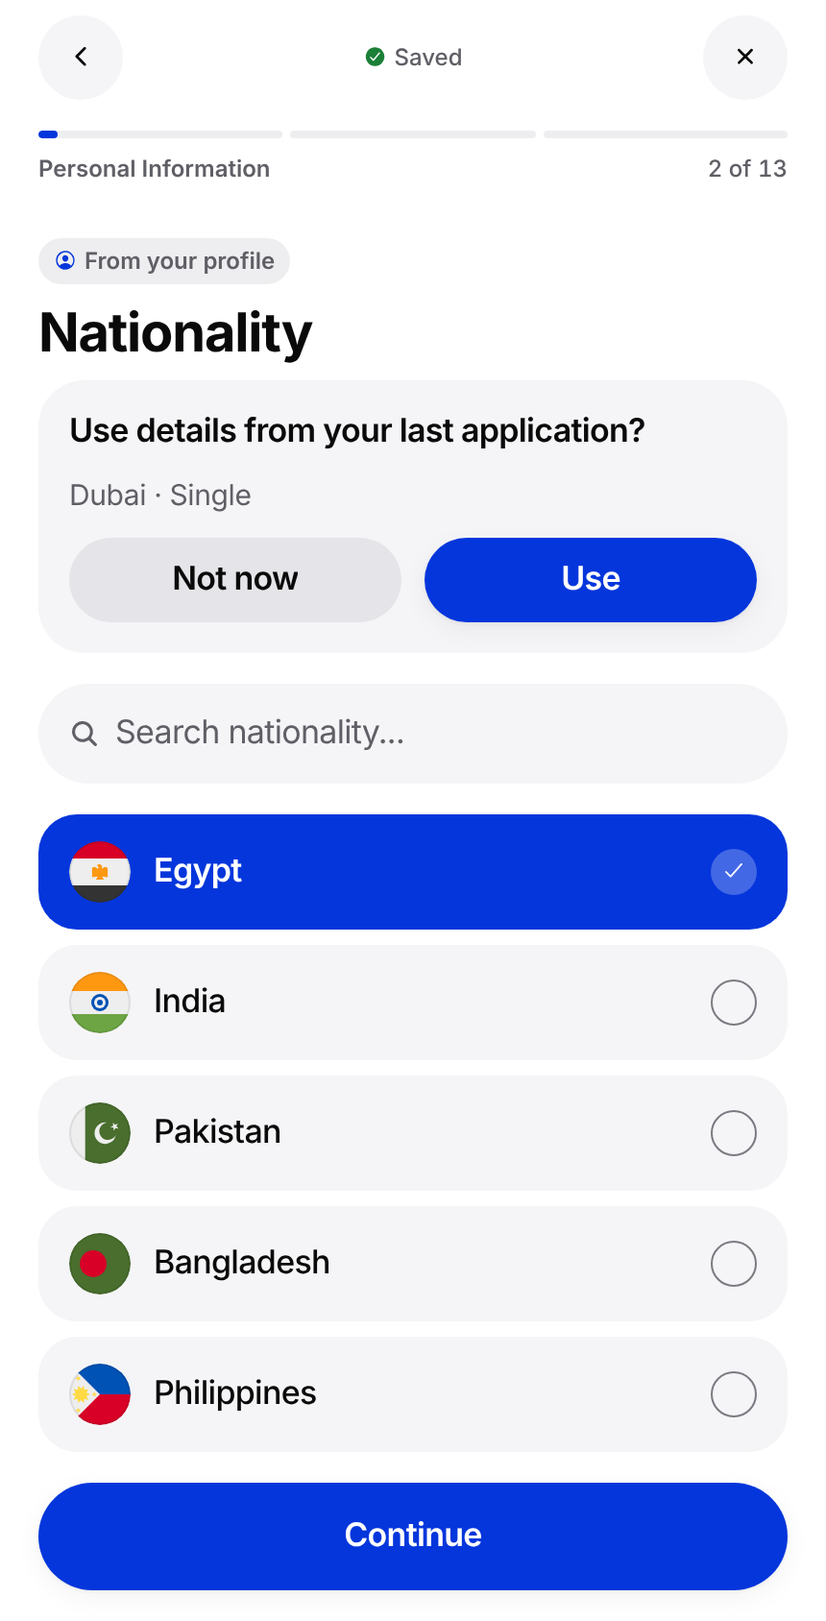
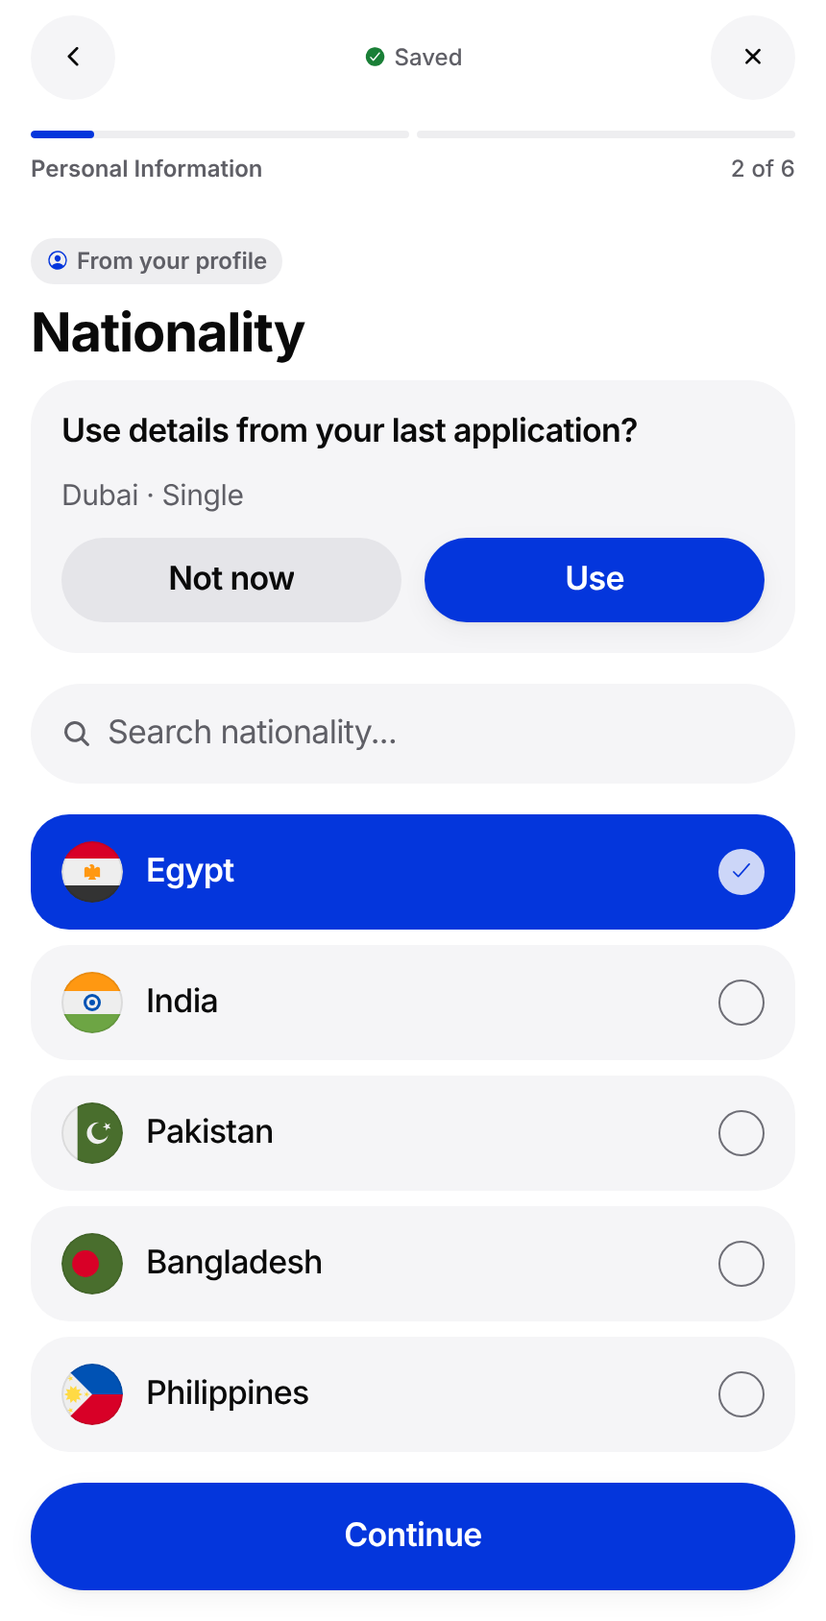
mobile prefill QA: prefill only what is asked before payment; RTL phone; migration 0013
After the pre/post-payment wizard split (8651059), profile prefill still wrote
date of birth, "has valid passport" and passport expiry into the pre-payment
draft. Those have no pre-payment question, so the user never saw them, and
Continue application skips answered questions, so they were never shown at all.
The last-application offer did the same for spouse names and employment.

- lib/profile.ts: PRE_PAYMENT_KEYS derived from lib/questions.ts; prefill keys,
  the offer list (OFFER_KEYS) and the Review save-back list are limited to it.
- app/apply/index.tsx: uses OFFER_KEYS; phone numbers in the Review prompt are
  LTR-isolated (Arabic reversed the digit groups).
- lib/ar.ts: shorter "Keep profile" (the button wrapped to two lines).
- migrations: customer profiles 0012 -> 0013 (0012 is claim_device_token);
  drop policy if exists before each create policy (re-runnable).
- tests: unit checks for pre-payment-only prefill, Continue still asking date
  of birth and passport, expired passport via validatePassport, a non-vacuous
  "nothing written before confirmation"; e2e follows the new flow, adds an
  answer-survives-reload check and waits out the boot splash for screenshots.
- handoff + screenshots updated (390/430, plus Arabic Review).

Claude-Session: https://claude.ai/code/session_01R6Y5ZGKq1RyjDpdeDi6T2v

diff --git a/mobile/scripts/test-profile.ts b/mobile/scripts/test-profile.ts
@@ -2,8 +2,9 @@
 // Run: node scripts/run-test-profile.mjs
 // @ts-ignore plain JS stub
 import { db as fake } from "./stubs/supabase.js";
-import { loadProfile, applyProfile, isFreshDraft, profileChanges, saveProfile, splitPhone, markPrefilled, markAsked, shouldAsk } from "../lib/profile";
-import { emptyForm, validatePersonal, iso, type WizardForm } from "../lib/wizard";
+import { loadProfile, applyProfile, isFreshDraft, profileChanges, saveProfile, splitPhone, markPrefilled, markAsked, shouldAsk, OFFER_KEYS, PRE_PAYMENT_KEYS, SAVABLE } from "../lib/profile";
+import { emptyForm, validatePassport, visibleSteps, iso, type WizardForm } from "../lib/wizard";
+import { QUESTIONS, activeQuestions, firstError } from "../lib/questions";
 declare const process: any;
 const db: any = fake;
 
@@ -31,12 +32,20 @@ db.rows = [
   ok(p.phoneCountry === "EG" && p.phoneLocal === "100 123 4567", "phone split into country + local");
   ok(p.email === A.email, "email is the account email");
 
-  // ---- expired passport: still prefilled, validation flags it ----
+  // ---- only answers asked before payment are prefilled (nothing hidden that Continue would then skip) ----
+  const preKeys = new Set(QUESTIONS.filter((q) => visibleSteps(emptyForm).includes(q.step)).flatMap((q) => q.keys as string[]));
   const { form, filled } = applyProfile({ ...emptyForm, destination: "France", nationality: "" }, p);
-  ok(form.passportExpiry === "2025-01-31" && filled.includes("passportExpiry") && form.hasValidPassport === "yes", "expired passport expiry is prefilled");
-  ok(form.passportNumber === "" && !filled.includes("passportNumber" as any), "passport number is not prefilled (asked after payment)");
-  ok(/expired/i.test(validatePersonal(form).passportExpiry ?? ""), `validation flags the expired passport ("${validatePersonal(form).passportExpiry}")`);
-  ok(validatePersonal({ ...form, passportExpiry: inYears(5) }).passportExpiry === undefined, "a valid future expiry passes");
+  ok(filled.length > 0 && filled.every((k) => preKeys.has(k)), `prefill fills only pre-payment answers (filled: ${filled.join(",")})`);
+  ok(!form.dateOfBirth && !form.hasValidPassport && !form.passportExpiry && !form.passportNumber, "date of birth and passport are not prefilled before payment");
+  const askedAfter = activeQuestions({ ...form, travelEndDate: inYears(1) }, "post").filter((q) => !!firstError(q, { ...form, travelEndDate: inYears(1) })).map((q) => q.id);
+  ok(["dateOfBirth", "hasValidPassport"].every((id) => askedAfter.includes(id)), `Continue (after payment) still asks date of birth and passport (asks: ${askedAfter.join(",")})`);
+  ok(OFFER_KEYS.every((k) => preKeys.has(k)) && OFFER_KEYS.includes("maritalStatus") && !OFFER_KEYS.some((k) => /^(employment|jobTitle|companyName|spouse|monthly|average)/.test(k)),
+    `"Use details from your last application" offers only pre-payment answers (${OFFER_KEYS.join(",")})`);
+  ok([...PRE_PAYMENT_KEYS].every((k) => preKeys.has(k)) && SAVABLE.every((x) => preKeys.has(x.key)), "profile save-back lists only fields shown on the pre-payment Review");
+  // ---- expired passport: flagged where the passport is asked now (Continue, validatePassport) ----
+  const expired = { ...emptyForm, hasValidPassport: "yes" as const, passportNumber: "A1234567", passportExpiry: "2025-01-31" };
+  ok(/expired/i.test(validatePassport(expired).passportExpiry ?? ""), `an expired passport is flagged ("${validatePassport(expired).passportExpiry}")`);
+  ok(validatePassport({ ...expired, passportExpiry: inYears(5) }).passportExpiry === undefined, "a valid future expiry passes");
 
   // ---- never over answers already in a draft ----
   const draft = { ...emptyForm, firstName: "Mina", nationality: "India" };
@@ -45,15 +54,15 @@ db.rows = [
   ok(!isFreshDraft(draft) && isFreshDraft({ ...emptyForm, destination: "Italy", nationality: "Egypt" }), "isFreshDraft: identity answers make a draft non-new; link values don't");
 
   // ---- edits -> profile question (only edited prefilled, savable fields) ----
-  const edited = { ...form, phone: "+20 100 999 0000", phoneLocal: "100 999 0000", passportNumber: "B7654321", passportExpiry: inYears(5) };
+  const edited = { ...form, phone: "+20 100 999 0000", phoneLocal: "100 999 0000", dateOfBirth: "1992-05-05", passportNumber: "B7654321", passportExpiry: inYears(5) };
   const ch = profileChanges(edited, p);
   ok(ch.length === 1 && ch[0].key === "phone", `only the edited savable field is offered (got ${ch.map((c) => c.key).join(",")})`);
   ok(profileChanges(form, p).length === 0, "no question when nothing was edited");
   ok(profileChanges({ ...form, phone: "+20 1001234567" }, p).length === 0, "phone formatting differences are not a change");
 
   // ---- update only after confirmation, only for the same account ----
+  ok(!db.calls.some((c: any) => c.updateUser), "nothing written before confirmation (load, prefill and diff never write)");
   db.calls = [];
-  ok(!db.calls.some((c: any) => c.updateUser), "nothing written before confirmation");
   await saveProfile(A.id, edited, ch);
   const w = db.calls.find((c: any) => c.updateUser);
   ok(!!w && w.updateUser === A.id && w.data.phone === "+20 100 999 0000" && Object.keys(w.data).sort().join() === "phone,phone_country", "confirmed: only the changed field is written to the user's own profile");

diff --git a/mobile/app/apply/index.tsx b/mobile/app/apply/index.tsx
@@ -28,7 +28,7 @@ import { submitApplication, guestSubmit, listRequirements, DraftConflictError, t
 import { PrefillOffer } from "../../components/wizard/extras";
 import { QuestionView } from "../../components/wizard/QuestionView";
 import { SyncIndicator, DraftConflictSheet } from "../../components/wizard/sync";
-import { loadProfile, applyProfile, isFreshDraft, profileChanges, saveProfile, markPrefilled, markAsked, shouldAsk, type ProfileChange } from "../../lib/profile";
+import { loadProfile, applyProfile, isFreshDraft, profileChanges, saveProfile, markPrefilled, markAsked, shouldAsk, OFFER_KEYS, type ProfileChange } from "../../lib/profile";
 import { useNetInfo } from "@react-native-community/netinfo";
 import { scheduleDraftReminder, cancelDraftReminder } from "../../lib/reminders";
 import { error as hError, tap, success, select } from "../../lib/haptics";
@@ -40,10 +40,6 @@ const WORLD_NAMES = WORLD.map((w) => w.name);
 const isoDate = (s?: string) => (s && /^\d{4}-\d{2}-\d{2}$/.test(s) && !isNaN(Date.parse(s)) ? s : "");
 const titleCase = (s: string) => decodeURIComponent(s).replace(/[-_+]+/g, " ").trim().replace(/\b\w/g, (m) => m.toUpperCase());
 const AUTO_MS = 260;
-/** Other stable answers the user can reuse from the last application with one tap (trip answers are never copied).
- *  The profile fields (name, nationality, date of birth, passport validity and expiry, phone) are prefilled on their own, see lib/profile.ts. */
-const PREFILL_KEYS: (keyof WizardForm)[] = ["cityOfResidence", "hasEmiratesId", "maritalStatus",
-  "spouseFirstName", "spouseLastName", "employmentStatus", "jobTitle", "companyName", "employmentStartDate", "monthlySalary", "averageMonthlyIncome"];
 const cleanAfterPrefill = (f: WizardForm): WizardForm => coerceResidence({ ...f, nationality: SCHENGEN_VISA_REQUIRED.includes(f.nationality) ? f.nationality : "" });
 const STEP_ORDER: WizardStep[] = ["personal", "spouse", "employment", "trip-details", "payment"];
 type Params = { step?: string; from?: string; to?: string; nationality?: string; destination?: string; travelStartDate?: string; travelEndDate?: string; country?: string; resume?: string; city?: string; cityOfResidence?: string };
@@ -130,8 +126,8 @@ export default function Apply() {
       }
       const w = r.last; if (!w) return;
       const values: Partial<WizardForm> = {};
-      for (const k of PREFILL_KEYS) { const v = (w as any)[k]; if (v !== undefined && v !== null && v !== "" && !(nf as any)[k]) (values as any)[k] = v; }
-      // Subtitle = what "Use" fills (e.g. "Dubai · Single · Employed"), so it is not mistaken for the profile prefill.
+      for (const k of OFFER_KEYS) { const v = (w as any)[k]; if (v !== undefined && v !== null && v !== "" && !(nf as any)[k]) (values as any)[k] = v; }
+      // Subtitle = what "Use" fills (e.g. "Dubai · Single"), so it is not mistaken for the profile prefill.
       const vf = { ...emptyForm, ...values } as WizardForm;
       const what = ["cityOfResidence", "maritalStatus", "employmentStatus", "jobCompany", "companyName"].map((id) => (Q_BY_ID[id] ? displayValue(Q_BY_ID[id], vf, t, fmt) : "")).filter(Boolean);
       if (Object.keys(values).length) setPrefill({ values, name: [...new Set(what)].join(" · ") || [w.firstName, w.lastName].filter(Boolean).join(" ") });
@@ -371,7 +367,8 @@ export default function Apply() {
                 <Text variant="headline" accessibilityRole="header">{t("Update your profile too?")}</Text>
                 <Text variant="subhead" tone="secondary">{t("You changed details that came from your profile. Save them for your next application?")}</Text>
                 {profileAsk.changes.map((ch) => {
-                  const show = (v: string) => (ch.key === "dateOfBirth" ? fmt(v) : ch.key === "nationality" ? t(v) : v);
+                  // Phone numbers are isolated as left-to-right so Arabic (RTL) text never reorders their digit groups.
+                  const show = (v: string) => (ch.key === "dateOfBirth" ? fmt(v) : ch.key === "nationality" ? t(v) : ch.key === "phone" ? `\u2066${v}\u2069` : v);
                   return (
                     <View key={ch.key} style={{ gap: S.xxs }} accessible accessibilityLabel={t("{field}: {to}, profile has {from}", { field: t(ch.label), to: show(ch.to), from: show(ch.from) })}>
                       <Text variant="footnote" tone="secondary">{t(ch.label)}</Text>

diff --git a/mobile/lib/profile.ts b/mobile/lib/profile.ts
@@ -5,25 +5,33 @@
 //     already prefills from (web app/apply/page.tsx). Only the signed-in user can read or change their own metadata.
 //  2. The user's own latest application (visa_applications .eq("email", me), like listApplications) for anything the
 //     metadata lacks, incl. passport number and expiry. Passport details are never written to user_metadata: that is
-//     copied into every access token. A real profile table for them is proposed in migrations/0012_customer_profiles.sql (not applied).
+//     copied into every access token. A real profile table for them is proposed in migrations/0013_customer_profiles.sql (not applied).
 // Nothing here is cached: the profile is fetched when needed and kept in component state only. The only thing stored
 // on the phone is a per-draft flag (no personal data) so the "update your profile?" question is asked once.
 import AsyncStorage from "@react-native-async-storage/async-storage";
 import { supabase } from "./supabase";
 import { WORLD } from "./world";
 import { parseNotes } from "./data";
-import { needsSchengenVisa, type WizardForm } from "./wizard";
+import { emptyForm, needsSchengenVisa, visibleSteps, type WizardForm } from "./wizard";
+import { QUESTIONS } from "./questions";
 
 export type ProfileKey = "firstName" | "lastName" | "email" | "phone" | "phoneCountry" | "phoneLocal" | "nationality" | "dateOfBirth" | "hasValidPassport" | "passportNumber" | "passportExpiry";
 export type Profile = Partial<Pick<WizardForm, ProfileKey>>;
+/** Answers the wizard asks before payment. Only these are prefilled: anything else would sit in the draft unseen, and
+ *  Continue application (after payment) skips questions that already have a valid answer. */
+export const PRE_PAYMENT_KEYS = new Set<string>(QUESTIONS.filter((q) => visibleSteps(emptyForm).includes(q.step)).flatMap((q) => q.keys as string[]));
+const prePayment = <T extends string>(keys: T[]) => keys.filter((k) => PRE_PAYMENT_KEYS.has(k));
 /** Wizard fields that are prefilled from the profile (the rest of the application is never copied automatically).
- *  The passport number is not one of them: the wizard asks it only after payment (Continue application). */
-export const PROFILE_KEYS: ProfileKey[] = ["firstName", "lastName", "email", "phone", "phoneCountry", "phoneLocal", "nationality", "dateOfBirth", "hasValidPassport", "passportExpiry"];
-/** Fields the user may save back to their profile (user_metadata) after confirming on Review. */
+ *  Date of birth and passport are loaded but asked only after payment, so today they are not prefilled. */
+export const PROFILE_KEYS: ProfileKey[] = prePayment<ProfileKey>(["firstName", "lastName", "email", "phone", "phoneCountry", "phoneLocal", "nationality", "dateOfBirth", "hasValidPassport", "passportExpiry"]);
+/** Other stable answers offered from the last application ("Use details from your last application?"), same rule. */
+export const OFFER_KEYS = prePayment<keyof WizardForm & string>(["cityOfResidence", "hasEmiratesId", "maritalStatus",
+  "spouseFirstName", "spouseLastName", "employmentStatus", "jobTitle", "companyName", "employmentStartDate", "monthlySalary", "averageMonthlyIncome"]);
+/** Fields the user may save back to their profile (user_metadata) after confirming on Review (only ones shown there). */
 export const SAVABLE: { key: keyof WizardForm; label: string }[] = [
-  { key: "firstName", label: "First Name" }, { key: "lastName", label: "Last Name" }, { key: "phone", label: "Phone Number" },
-  { key: "nationality", label: "Nationality" }, { key: "dateOfBirth", label: "Date of Birth" },
-];
+  { key: "firstName" as const, label: "First Name" }, { key: "lastName" as const, label: "Last Name" }, { key: "phone" as const, label: "Phone Number" },
+  { key: "nationality" as const, label: "Nationality" }, { key: "dateOfBirth" as const, label: "Date of Birth" },
+].filter((x) => PRE_PAYMENT_KEYS.has(x.key));
 export type ProfileChange = { key: keyof WizardForm; label: string; from: string; to: string };
 
 const s = (v: unknown) => (typeof v === "string" ? v.trim() : "");

diff --git a/mobile/lib/ar.ts b/mobile/lib/ar.ts
@@ -442,7 +442,7 @@ export const AR: Record<string, string> = {
   "You changed details that came from your profile. Save them for your next application?": "لقد غيّرت بيانات مأخوذة من ملفك الشخصي. هل تريد حفظها لطلبك القادم؟",
   "{field}: {to}, profile has {from}": "{field}: {to}، والملف الشخصي فيه {from}",
   "Profile: {v}": "الملف الشخصي: {v}",
-  "Keep profile": "إبقاء الملف كما هو",
+  "Keep profile": "إبقاء الملف",
   "Update profile": "تحديث الملف",
   "Profile updated.": "تم تحديث الملف الشخصي.",
   "This passport has expired. Enter the expiry date of your current passport.": "انتهت صلاحية جواز السفر هذا. أدخل تاريخ انتهاء جواز سفرك الحالي.",

diff --git a/mobile/docs/HANDOFF-07-prefill.md b/mobile/docs/HANDOFF-07-prefill.md
@@ -1,6 +1,6 @@
 # HANDOFF NOTE: chat 07, Prefill & Profile Data
 
-Branch `claude/bold-feynman-ssk2ur` ([PR #6](https://github.com/kirolosedward1/EZvisa-anitgravity/pull/6), base `mobile-app`). All work is in `mobile/`. No DB, RLS or storage changes were applied.
+First shipped in [PR #6](https://github.com/kirolosedward1/EZvisa-anitgravity/pull/6) (merged into `mobile-app`), then a QA follow-up on branch `claude/bold-feynman-ssk2ur` after the pre/post-payment wizard split (8651059). All work is in `mobile/`. No DB, RLS or storage changes were applied.
 
 ## Where profile data lives (verified)
 - **Live DB** (`dravvaykssrbktztmrlj`, ezvisa-uae): **no `profiles` table** and no per-user passport columns. Applications are `visa_applications` rows owned by `email` = the user's email.
@@ -13,31 +13,47 @@ Branch `claude/bold-feynman-ssk2ur` ([PR #6](https://github.com/kirolosedward1/E
 |---|---|
 | Profile load / fill / diff / save, phone split, per-draft "asked" flags | `lib/profile.ts` (new) |
 | Prefill on a new draft, "From your profile" chip, review prompt | `app/apply/index.tsx` |
-| Expired-passport message | `lib/wizard.ts` (`validatePersonal`) |
+| Expired-passport message | `lib/wizard.ts` (`validatePassport`, asked after payment) |
 | Prefill flags wiped on sign-out (added to chat 03's list) | `lib/userData.ts` (`USER_KEYS`) |
 | Arabic strings | `lib/ar.ts` |
-| Proposed profile table (**not applied**, needs approval) | `migrations/0012_customer_profiles.sql` |
+| Proposed profile table (**not applied**, needs approval) | `migrations/0013_customer_profiles.sql` |
 | Tests | `scripts/test-profile.ts` + `run-test-profile.mjs`, `scripts/e2e-prefill-web.mjs`, `scripts/stubs/supabase.js` |
 
 ### Rules as implemented
 - **Sources** (all scoped to the signed-in user): `user_metadata` first (`first_name`, `last_name`, `full_name`, `phone`, `phone_country`, `nationality`, `date_of_birth`). Anything missing comes from the user's own latest real application (`.eq("email", me)`, newest first, cancelled rows skipped, drafts only as a last resort). Passport validity and expiry come only from there.
 - **When:** signed in, and the open draft is new (no identity answers yet, no cloud draft id), and no account draft is about to be resumed (chat 06's `latestDraft` resume wins). Runs once per account + draft, so "Start Fresh" and new applications also get prefilled.
-- **What:** only empty fields: names, email, phone, nationality (visa-required list only), date of birth, has-valid-passport, passport expiry. **Not the passport number:** since chat 09 moved it, it is asked after payment (Continue application), which prefills it from the application itself. Never over existing answers. The old "Use details from your last application?" card now offers only the remaining stable answers (emirate, marital, employment). Its subtitle lists what it fills.
+- **What:** only empty fields, and **only answers the wizard asks before payment** (`PRE_PAYMENT_KEYS`, derived from `lib/questions.ts`): first/last name, email, phone, nationality (visa-required list only). Never over existing answers. Date of birth and passport details are loaded but **not prefilled**: since 8651059 they are asked only after payment (Continue application), and Continue skips any question that already has a valid answer. A value prefilled before payment would never be shown to the user. The "Use details from your last application?" card follows the same rule (`OFFER_KEYS`: emirate, marital status), and its subtitle lists what it fills.
 - **Editable:** prefilled answers are ordinary answers. A small "From your profile" chip shows while the value is unchanged.
-- **Expired passport:** prefilled as-is. Validation shows "This passport has expired. Enter the expiry date of your current passport.", and Review shows that message instead of "Missing".
-- **Confirm:** on Review, if any prefilled savable field (first/last name, phone, nationality, date of birth) differs from the profile, a card asks "Update your profile too?" and lists each change. **Update profile** calls `auth.updateUser({ data })` with only the changed keys, after re-checking that the signed-in user id still matches. **Keep profile**, or submitting without answering, means no write. The question is asked once per draft (`ezvisa.prefill.v1` flag, no personal data in it).
-- **Passport details are never written to `user_metadata`**, because it is copied into every access token. Saving them needs the proposed table (`migrations/0012_customer_profiles.sql`).
+- **Expired passport:** no longer prefilled (see above). When Continue asks for the expiry, `validatePassport` flags an expired date: "This passport has expired. Enter the expiry date of your current passport."
+- **Confirm:** on Review, if any prefilled savable field shown there (first/last name, phone, nationality) differs from the profile, a card asks "Update your profile too?" and lists each change. **Update profile** calls `auth.updateUser({ data })` with only the changed keys, after re-checking that the signed-in user id still matches. **Keep profile**, or submitting without answering, means no write. The question is asked once per draft (`ezvisa.prefill.v1` flag, no personal data in it).
+- **Passport details are never written to `user_metadata`**, because it is copied into every access token. Saving them needs the proposed table (`migrations/0013_customer_profiles.sql`).
 - **No cache:** the profile lives in component state only and is fetched fresh for prefill and for Review.
 - **Account switch:** handled by chat 03 (`lib/userData.ts` wipes every personal key on any sign-out) and chat 06 (each draft records its `owner` and is hidden from other accounts). This PR first shipped its own owner-tag purge in `lib/form.tsx`. When chats 03/06 landed, that was dropped in favour of theirs, and this PR only adds `ezvisa.prefill.v1` to `USER_KEYS`. The profile itself is never stored on the phone.
 
-## Tests run (all passing)
+## Tests run (all passing, on `mobile-app` @ 8651059 + the QA fixes)
 - `npx tsc --noEmit`: clean.
-- `npx expo lint`: 0 errors, and no warnings in the files this PR adds.
-- `node scripts/run-test-profile.mjs`: 30/30 logic checks pass (scoping, expired passport, no overwrite, change detection, confirm-only write, cross-account refusal, new/partial profile, phone split, ask-once).
-- `scripts/e2e-prefill-web.mjs`: the real app UI on Expo web in Chromium at **390 and 430 px**, two accounts on one browser profile, Supabase mocked at the network layer (PATCH returns rows like PostgREST, for chat 06's version checks). 15/15 checks pass at each width on the branch merged with chats 03/06/08/09/11. Screenshots are in `docs/screenshots/07-prefill/`.
+- `npx expo lint`: 0 errors, and no warnings in this feature's files.
+- `node scripts/run-test-profile.mjs`: 34/34 logic checks pass. They cover:
+  - scoping to the signed-in user
+  - pre-payment-only prefill, and Continue still asking date of birth and passport
+  - expired passport flagged
+  - no overwrite of existing answers
+  - change detection
+  - confirm-only write, with nothing written before confirmation
+  - cross-account refusal
+  - new and partial profiles
+  - phone split
+  - asking once
+- `scripts/e2e-prefill-web.mjs`: the real app UI on Expo web in Chromium at **390 and 430 px**, with two accounts on one browser profile and Supabase mocked at the network layer. 16/16 checks pass at each width, including an answer surviving a reload unchanged. Screenshots are in `docs/screenshots/07-prefill/`, including `11-review-confirm-prompt-arabic-390.png`.
+- `migrations/0013_customer_profiles.sql`, applied to a throwaway local Postgres 16 (with stand-ins for Supabase's `auth` schema and roles):
+  - it applies, and re-runs, cleanly
+  - the owner can read and write their own row
+  - another account sees 0 rows and cannot insert for the owner
+  - signed-out users (`anon`) are denied
 - **Control:** the same sign-out → sign-in check failed on the old code (`mobile-app` @ 591aced, before chats 03/06): account B saw A's typed surname. It passes on the merged branch.
 
 ## Not done / needs you
 1. **Real iPhone test not run.** Nothing here can drive a phone. Steps: in Expo Go on an iPhone, sign in as test account A (with a past application) → New application → check the prefilled fields and the chip → change the phone → Review → confirm prompt → Update profile → Account → Sign out → sign in as B → New application: empty fields, nothing of A. Then sign out and back in as A: the new draft has the updated phone.
-2. **Approval needed:** `migrations/0012_customer_profiles.sql`, if you want passport details saved to a profile. Not applied.
+2. **Approval needed:** `migrations/0013_customer_profiles.sql`, if you want passport details saved to a profile. Not applied. Renumbered from 0012, which is `0012_claim_device_token.sql` (push).
+4. **Decision needed: date of birth and passport prefill after payment.** Today they are not prefilled anywhere. To prefill them on Continue, Continue would have to show prefilled questions for confirmation instead of skipping answered ones. That changes the Continue screen (chat 09's), so it isn't done without your call.
 3. **Chats 03/06:** merged. `lib/form.tsx` and the Account screen are theirs unchanged. Prefill deliberately yields to `latestDraft()` resume, and to a draft row chat 06 creates early, via `isFreshDraft` + `draftId`.
